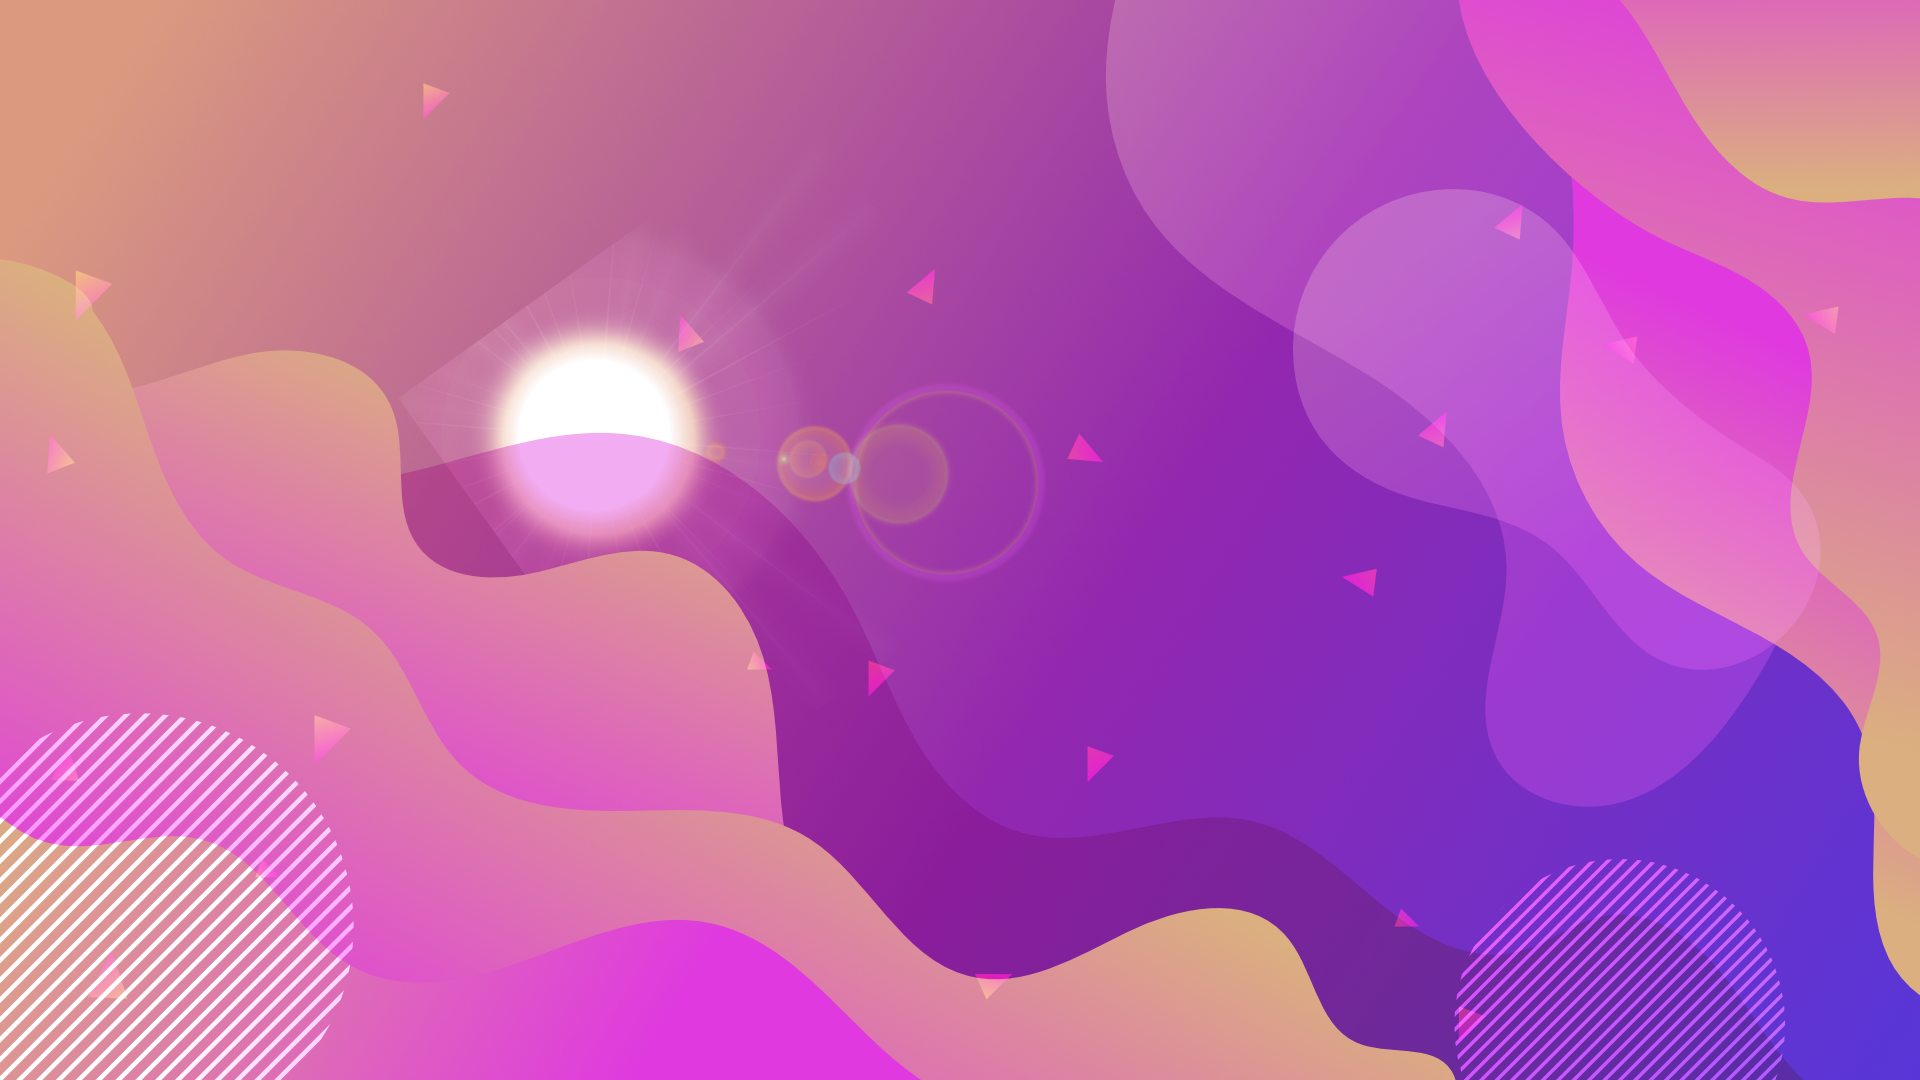
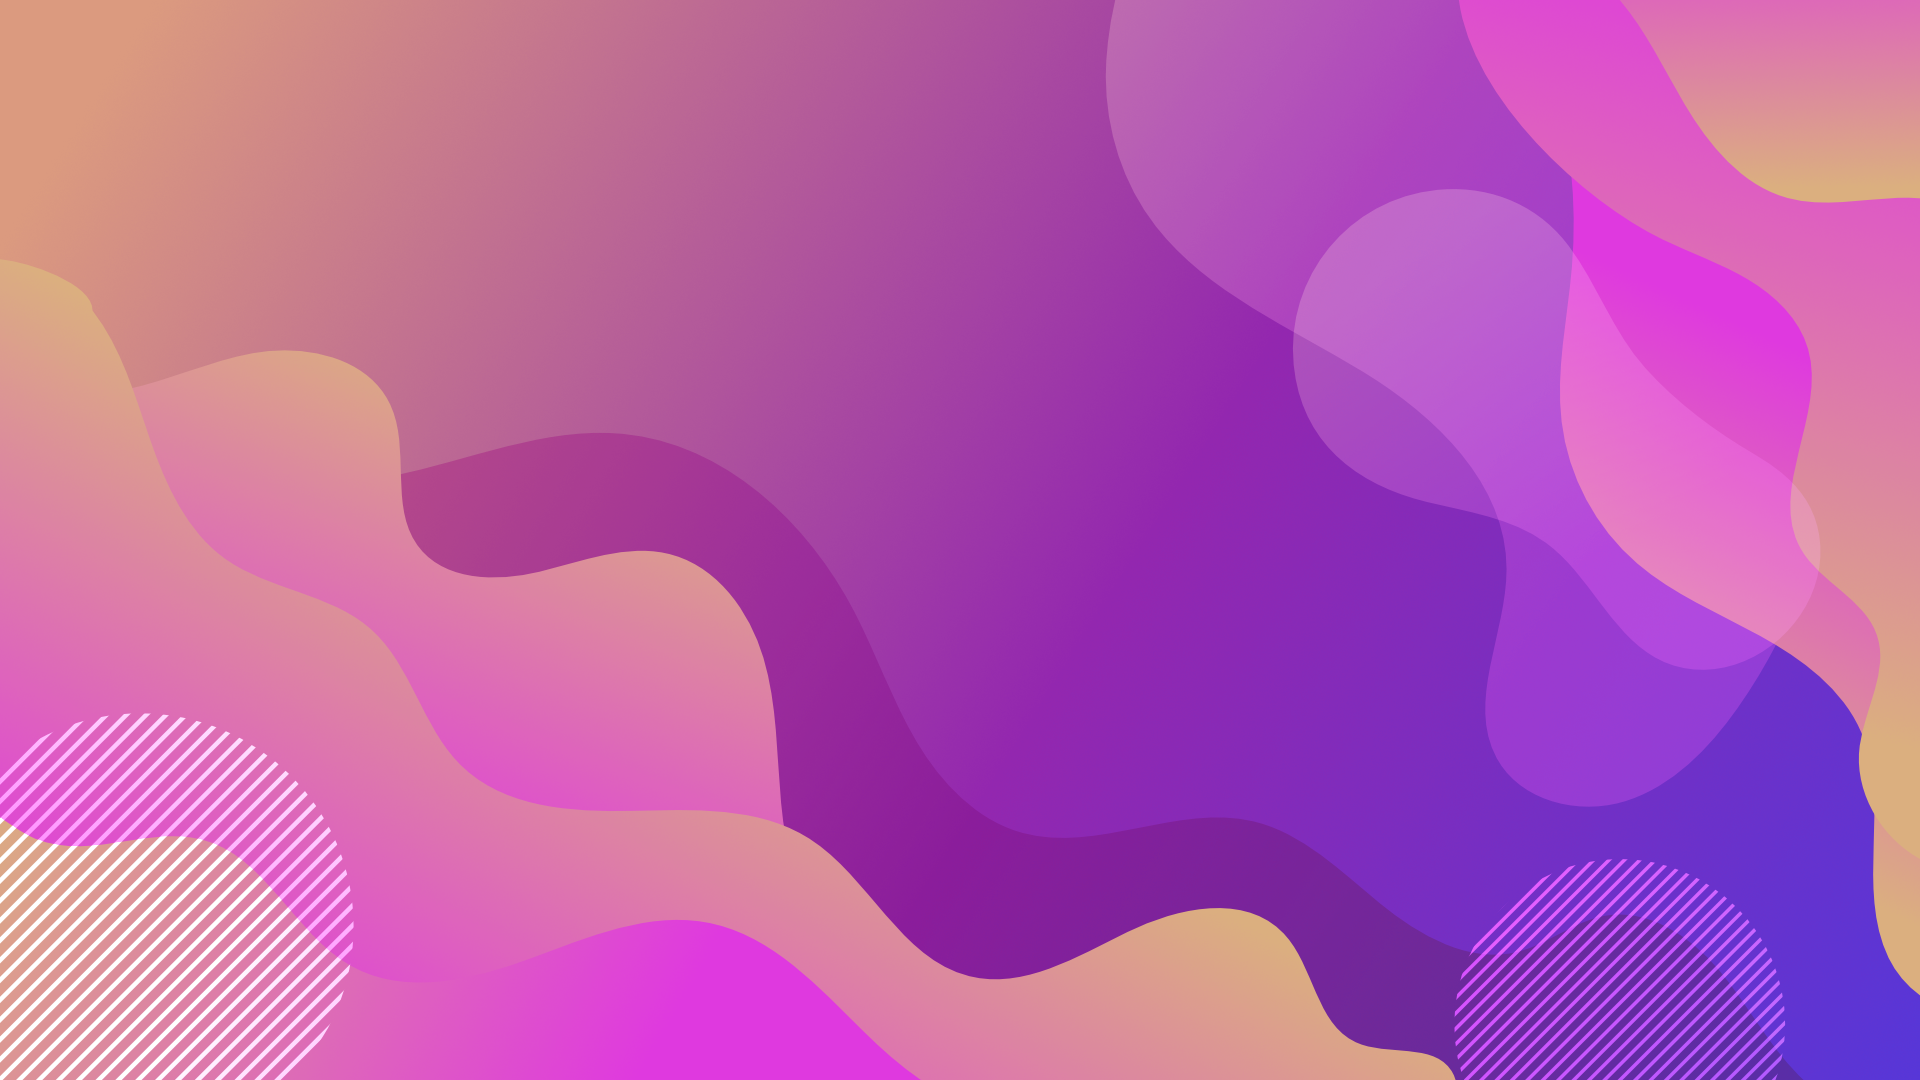
Add Responsiveness

diff --git a/Home.html b/Home.html
@@ -12,15 +12,15 @@
       <!-- NAVIGATION BAR -->
 
         <nav class="navbar navbar-expand-lg navbar-expand-md navbar-dark">
-      <!-- LOGO -->
+        <!-- LOGO -->
             <a class="navbar-brand" href="Home.html">
                 <img src="images/Artboard 14.png" width="300" alt="Unicorn Finders Logo">
             </a>
-      <!-- TOGGLER -->
+        <!-- TOGGLER -->
             <button class="navbar-toggler" type="button" data-bs-toggle="collapse" data-bs-target="#navbarSupportedContent" aria-controls="navbarSupportedContent" aria-expanded="false" aria-label="Toggle navigation">
                 <span class="navbar-toggler-icon"></span>
             </button>
-      <!-- MENU -->
+        <!-- MENU -->
             <div class="collapse navbar-collapse" id="navbarSupportedContent">
                 <ul class="navbar-nav ms-auto">
 
@@ -38,7 +38,7 @@
                         </ul>
 
                     <li class="nav-item">
-                      <a class="nav-link" href="">Unicorns</a>
+                      <a id="menu-item" class="nav-link" href="">Unicorns</a>
                     </li>
 
                     <li class="nav-item">
@@ -49,7 +49,7 @@
 
       <!-- CAROUSEL -->
 
-        <div id="carouselExampleIndicators" class="carousel slide carousel-fade" data-bs-ride="true">
+        <div id="carouselExampleIndicators" class="carousel slide carousel-fade" data-bs-ride="carousel">
             <div class="carousel-indicators">
               <button type="button" data-bs-target="#carouselExampleIndicators" data-bs-slide-to="0" class="active" aria-current="true" aria-label="Slide 1"></button>
               <button type="button" data-bs-target="#carouselExampleIndicators" data-bs-slide-to="1" aria-label="Slide 2"></button>
@@ -59,48 +59,53 @@
         <!-- SLIDE 1 -->
               <div class="carousel-item active">
                 <div class="row">
-                  <div class="slide-image col-lg-6">
-                    <img src="images/Therify.png" class="d-inline slide-image" alt="...">
+                  <div class="slide-logo col-lg-6">
+                    <a href="https://therify.co/">
+                     <img src="images/Therify.png" class="d-inline slide-image" alt="...">
+                    </a>
                   </div>
-                  <div class="slide text col-lg-6">
+                  <div class="slide-text col-lg-6">
                     <h1>
                       Therify
                     </h1>
                     <p>
                       Mental Health Startup Therify who is backed by Softbank, Y Combinator, Looking Glass Capital.
                     </p>
+                    <button class="btn btn-lg">Episode</button>
                   </div>
                 </div>
               </div>
         <!-- SLIDE 2 -->
               <div class="carousel-item">
                 <div class="row">
-                  <div class="slide-image col-lg-6">
+                  <div class="slide-logo col-lg-6">
                     <img src="images/g2i.png" class="d-inline slide-image" alt="...">
                   </div>
-                  <div class="slide text col-lg-6">
+                  <div class="slide-text col-lg-6">
                     <h1>
                       G2i
                     </h1>
                     <p>
                       Developer Health Platform G2i who is leading the industry in promoting the 4 day work week and taking care of software engineers
                     </p>
+                    <button class="btn btn-primary btn-lg">Episode</button>
                   </div>
                 </div>
               </div>
         <!-- SLIDE 3 -->
               <div class="carousel-item">
                 <div class="row">
-                  <div class="slide-image col-lg-6">
+                  <div class="slide-logo col-lg-6">
                     <img src="images/zerv.jpg" class="d-inline slide-image" alt="...">
                   </div>
-                  <div class="slide text col-lg-6">
+                  <div class="slide-text col-lg-6">
                     <h1>
                       Zerv
                     </h1>
                     <p>
                       Fast-Growing, Smart-Access Technology Zerv Secures $15 Million in Series A Funding.
                     </p>
+                    <button class="btn btn-lg">Episode</button>
                   </div>
                 </div>
               </div>

diff --git a/Unicorn_Finders_Website.css b/Unicorn_Finders_Website.css
@@ -1,36 +1,48 @@
 #title {
-    background-image: url("images/Ring\ Option\ 1.png");
-    height:830px;
     background-image: url("images/Ring\ Option\ 3.png");
-    height:830px;
 }
 nav {
     padding: 3%;
     padding-top: 10%;
+    font-size: 1.4rem;
 }
 
 .carousel-item {
-    height: 48rem;
-    /* background: #fac9d1; */
     color: white;
     position: relative;
 }
-.carousel-item img {
-    height: 400px;
-    /* margin-left: 395px;
-    margin-top: 155px; */
+.slide-logo {
+    display: flex;
+    justify-content: center;
 }
+
 .slide-image {
     border-radius: 100%;
-    height: 60%;
+    height: 23rem;
 }
+
 .row {
-    margin: 150px 350px;
+    margin: 150px 15%;
 }
 h1 {
     text-align: center;
-    margin-top: 100px;
 }
 p {
     text-align: center;
 }
+
+.btn {
+    border-color: white;
+    width: 40%;
+    margin-left: auto;
+    margin-right: auto;
+}
+.nav-item {
+    margin: 0.75rem;
+}
+.slide-text {
+    display: flex;
+    flex-direction: column;
+    justify-content: center;
+    margin: auto;
+} 
